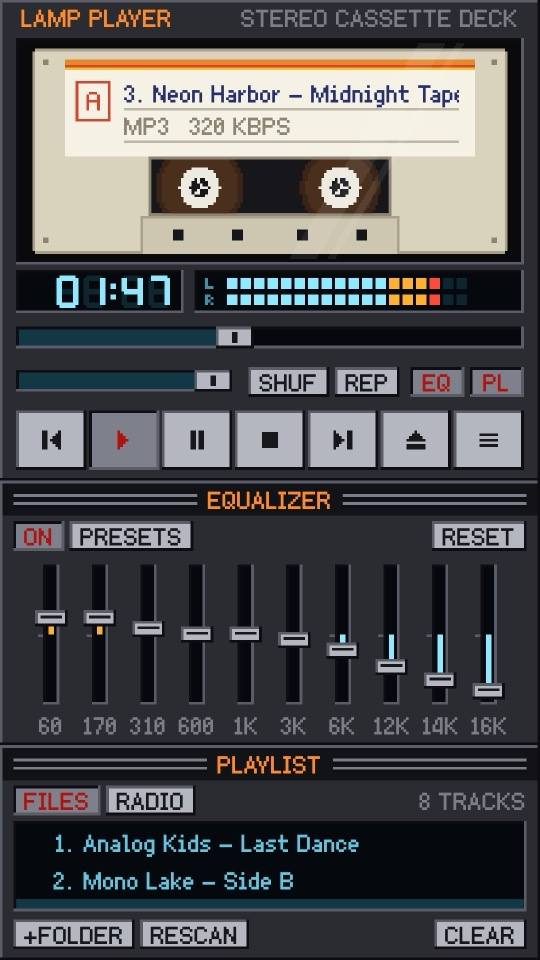
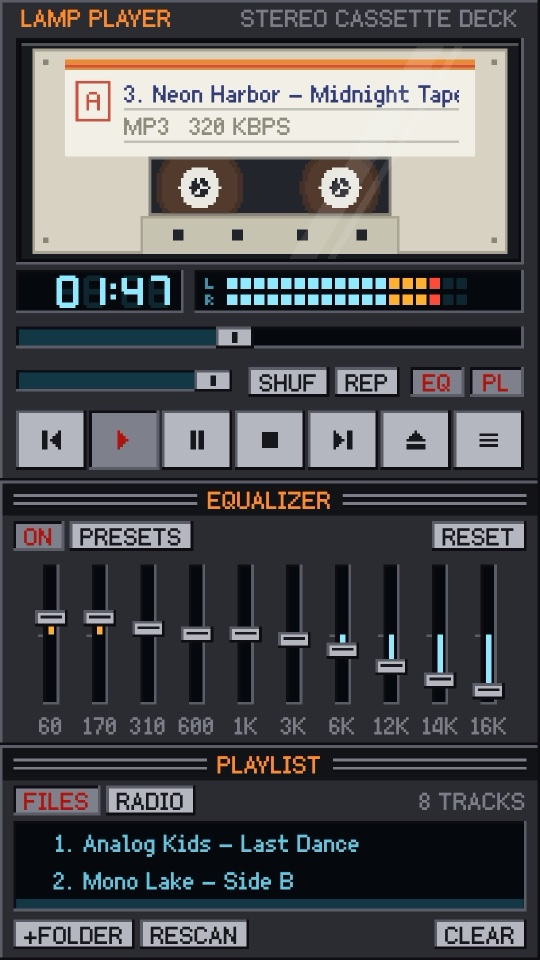
Update the site for Lamp Player 0.0.2
The download button points to 0.0.2, and the pages describe the 3D
player skin and the cassettes, with a screenshot of each.

diff --git a/ru.html b/ru.html
@@ -4,7 +4,7 @@
 <meta charset="utf-8">
 <meta name="viewport" content="width=device-width, initial-scale=1">
 <title>Lamp Player — ретро-плеер для своей музыки и радио</title>
-<meta name="description" content="Lamp Player: ретро-плеер для своих музыкальных файлов и интернет-радио, со скинами «классика», «кассетная дека» и «ламповый приёмник».">
+<meta name="description" content="Lamp Player: ретро-плеер для своих музыкальных файлов и интернет-радио, со скинами «классика», «кассетная дека», «плеер 3D» и «ламповый приёмник».">
 <link rel="icon" href="img/favicon.png">
 <link rel="stylesheet" href="style.css">
 </head>
@@ -19,8 +19,8 @@
     <img src="img/icon.png" alt="Значок Lamp Player: кассета с зелёным спектром на наклейке">
     <div>
       <h1>LAMP PLAYER</h1>
-      <p>Ретро-плеер для своей музыки и интернет-радио. Три скина, светящийся спектр, эквалайзер с крупными ползунками и клавиши, которые щёлкают.</p>
-      <a class="badge go" href="https://github.com/alks801/lamp-player-site/releases/download/v0.0.1/LampPlayer-0.0.1-arm64.apk">Скачать APK · Android · 0.0.1</a>
+      <p>Ретро-плеер для своей музыки и интернет-радио. Четыре скина, кассеты, которые можно менять, плеер, который поворачивается от наклона телефона, и клавиши, которые щёлкают.</p>
+      <a class="badge go" href="https://github.com/alks801/lamp-player-site/releases/download/v0.0.2/LampPlayer-0.0.2-arm64.apk">Скачать APK · Android · 0.0.2</a>
       <span class="badge soon">Google Play: скоро</span>
       <p class="note">30 МБ, для телефонов с 64-битным процессором (почти все телефоны с 2017 года). Android попросит разрешить установку из браузера: для приложения не из магазина это нормально.</p>
     </div>
@@ -29,15 +29,25 @@
   <div class="shots">
     <img src="img/1-classic-ru.jpg" alt="Классический скин: ЖК-часы, анализатор спектра, эквалайзер и плейлист">
     <img src="img/2-cassette-ru.jpg" alt="Скин «кассетная дека» с вращающимися катушками">
+    <img src="img/4-player-3d-ru.jpg" alt="Скин «Плеер 3D»: объёмный портативный кассетник, слегка повёрнутый">
     <img src="img/3-valve-radio-ru.jpg" alt="Скин «ламповый приёмник» с подсвеченной шкалой и светящимися лампами">
   </div>
 
   <div class="panel">
-    <h2>ТРИ СКИНА</h2>
+    <h2>ЧЕТЫРЕ СКИНА</h2>
     <ul>
       <li>Классика: окно настольного плеера с ЖК-часами и анализатором спектра</li>
       <li>Кассетная дека: катушки вращаются, лента перематывается с одной на другую</li>
+      <li>Плеер 3D: объёмный портативный кассетник; дверца откидывается, а сам плеер поворачивается от наклона телефона</li>
       <li>Ламповый приёмник: деревянный корпус, светящиеся лампы, шкала и «магический глаз»</li>
+    </ul>
+  </div>
+
+  <div class="panel">
+    <h2>КАССЕТЫ</h2>
+    <ul>
+      <li>Каждая папка с музыкой и каждая радиостанция — кассета своего цвета</li>
+      <li>Нажмите ⏏, выберите на полке другую кассету и смотрите, как она заезжает в деку</li>
     </ul>
   </div>
 

diff --git a/index.html b/index.html
@@ -4,7 +4,7 @@
 <meta charset="utf-8">
 <meta name="viewport" content="width=device-width, initial-scale=1">
 <title>Lamp Player — retro player for your music and radio</title>
-<meta name="description" content="Lamp Player: a retro player for your own music files and internet radio, with classic, cassette deck and valve radio skins.">
+<meta name="description" content="Lamp Player: a retro player for your own music files and internet radio, with classic, cassette deck, 3D player and valve radio skins.">
 <link rel="icon" href="img/favicon.png">
 <link rel="stylesheet" href="style.css">
 </head>
@@ -19,8 +19,8 @@
     <img src="img/icon.png" alt="Lamp Player icon: a cassette with a green spectrum on its label">
     <div>
       <h1>LAMP PLAYER</h1>
-      <p>A retro player for your own music and internet radio. Three skins, a glowing spectrum, an equalizer with chunky sliders and keys that click.</p>
-      <a class="badge go" href="https://github.com/alks801/lamp-player-site/releases/download/v0.0.1/LampPlayer-0.0.1-arm64.apk">Download APK · Android · 0.0.1</a>
+      <p>A retro player for your own music and internet radio. Four skins, cassettes you can swap, a player that turns as you tilt the phone, and keys that click.</p>
+      <a class="badge go" href="https://github.com/alks801/lamp-player-site/releases/download/v0.0.2/LampPlayer-0.0.2-arm64.apk">Download APK · Android · 0.0.2</a>
       <span class="badge soon">Google Play: coming soon</span>
       <p class="note">30 MB, for phones with a 64-bit processor (almost every phone since 2017). Android will ask you to allow installing from your browser: that is normal for an app from outside the store.</p>
     </div>
@@ -29,15 +29,25 @@
   <div class="shots">
     <img src="img/1-classic-en.jpg" alt="Classic skin: LCD clock, spectrum analyzer, equalizer and playlist">
     <img src="img/2-cassette-en.jpg" alt="Cassette deck skin with turning reels">
+    <img src="img/4-player-3d-en.jpg" alt="3D player skin: a portable cassette player with depth, turned slightly">
     <img src="img/3-valve-radio-en.jpg" alt="Valve radio skin with a lit dial and glowing valves">
   </div>
 
   <div class="panel">
-    <h2>THREE SKINS</h2>
+    <h2>FOUR SKINS</h2>
     <ul>
       <li>Classic: a desktop-player window with an LCD clock and a spectrum analyzer</li>
       <li>Cassette deck: the reels turn and the tape winds from one reel to the other</li>
+      <li>3D player: a portable cassette player with real depth; its door swings open and it turns as you tilt the phone</li>
       <li>Valve radio: a walnut cabinet, glowing valves, a lit dial and a magic eye</li>
+    </ul>
+  </div>
+
+  <div class="panel">
+    <h2>CASSETTES</h2>
+    <ul>
+      <li>Every music folder and every radio station is a cassette with its own colours</li>
+      <li>Press eject, pick another cassette from the shelf and watch it slide in</li>
     </ul>
   </div>
 

diff --git a/style.css b/style.css
@@ -58,7 +58,7 @@ a.badge.go:hover { background: #8cffb0; color: #07100a; }
 .panel ul { margin: 0; padding-left: 20px; }
 .panel li { margin: 4px 0; }
 
-.shots { display: grid; grid-template-columns: repeat(3, 1fr); gap: 16px; margin: 24px 0; }
+.shots { display: grid; grid-template-columns: repeat(4, 1fr); gap: 12px; margin: 24px 0; }
 .shots img { width: 100%; border: 2px solid var(--edge-dark); }
 .wide img { width: 100%; border: 2px solid var(--edge-dark); }
 
@@ -72,5 +72,5 @@ footer { margin-top: 40px; color: var(--muted); font-size: 14px; }
   .hero { grid-template-columns: 1fr; text-align: center; }
   .hero img { margin: 0 auto; width: 160px; height: 160px; }
   .hero h1 { font-size: 32px; }
-  .shots { grid-template-columns: 1fr; }
+  .shots { grid-template-columns: repeat(2, 1fr); }
 }
